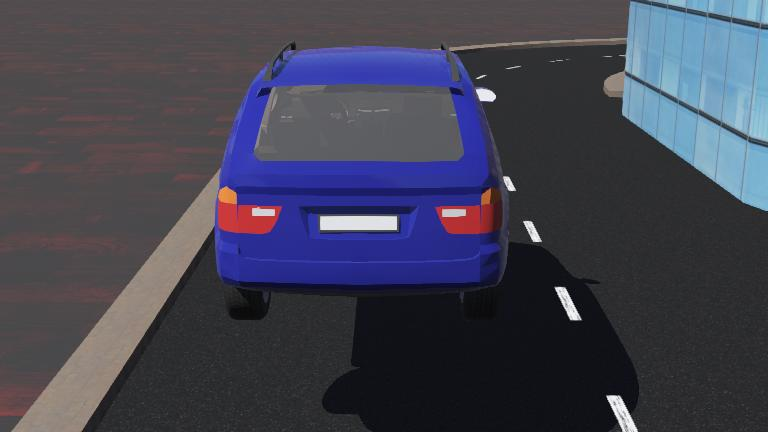
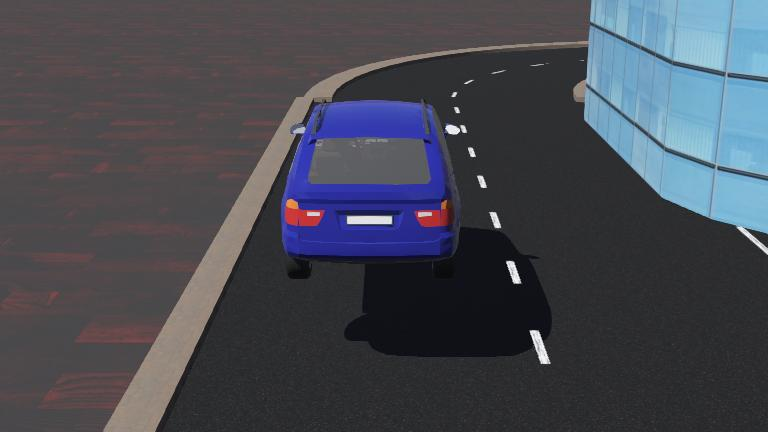
recovery steering
I've changed the recovery of the car in order to find the lane if it loses it by looking at the direction of the car

diff --git a/controllers/Hondaodyssey/Hondaodyssey.py b/controllers/Hondaodyssey/Hondaodyssey.py
@@ -56,6 +56,8 @@ autodrive = False
 last_error = 0.0
 last_steering = 0.0
 integral = 0.0
+last_average_x = 0.0
+was_blind = False 
 print("Use the up/down/left/right buttons to move")
 print("Press A to start the AUTOPILOT")
 
@@ -109,6 +111,7 @@ while driver.step() != -1:
         width = camera.getWidth()
         height = camera.getHeight()
         start_y = int(height * 0.4)
+        
     #Preconditions:
         #The vehicle is in autopilot mode
         #Both camera and left camera are enabled and returning image arrays
@@ -141,6 +144,7 @@ while driver.step() != -1:
                 target_x_r = width * 0.7
                 error += (avg_x_r - target_x_r) / width
                 visible_cameras += 1
+                last_average_x = avg_x_r
         #PROCESS LEFT CAMERA:
             #Continue the code with the Right camera and average out error
         pixel_count_left = 0
@@ -156,7 +160,7 @@ while driver.step() != -1:
                         pixel_count_left += 1
             if pixel_count_left > 0:
                 avg_x_l = sum_x_l / pixel_count_left
-                target_x_l = width * 0.6
+                target_x_l = width * 0.2
                 error += (avg_x_l - target_x_l) / width
                 visible_cameras += 1    
         #DUAL PID
@@ -167,6 +171,9 @@ while driver.step() != -1:
             #save the errors for memory
         if visible_cameras > 0:
             error = error / visible_cameras
+            if was_blind:
+                last_error = error
+                was_blind = False
             if (error > 0) != (last_error > 0):
                 integral = 0.0
             integral += error
@@ -191,12 +198,19 @@ while driver.step() != -1:
             #Hold steering wheel to the last known location/ange
             #set constant speed for recovery
         else:
-            driver.setBrakeIntensity(0.0)
-            current_steering = last_steering * 2
-            current_steering = max(-0.4, min(0.4, current_steering))
             
-            current_speed = 15.0 
-            print("BLIND SPOT! Both cameras lost. Holding wheel.")
+            was_blind = True
+            driver.setBrakeIntensity(0.0)
+            target_x_r = width * 0.7
+            displacement = (last_average_x - target_x_r) / width
+            recovery_steering = last_steering + (displacement * 1.5)
+            recovery_steering = max(-0.5, min(0.5, recovery_steering))
+            current_speed = max(5.0, 15.0 - abs(displacement) * 30.0)
+            
+            current_steering = recovery_steering
+            
+             
+            print(f"BLIND: last_error={last_error:.3f} recovery={current_steering:.3f}")
             
 
             
